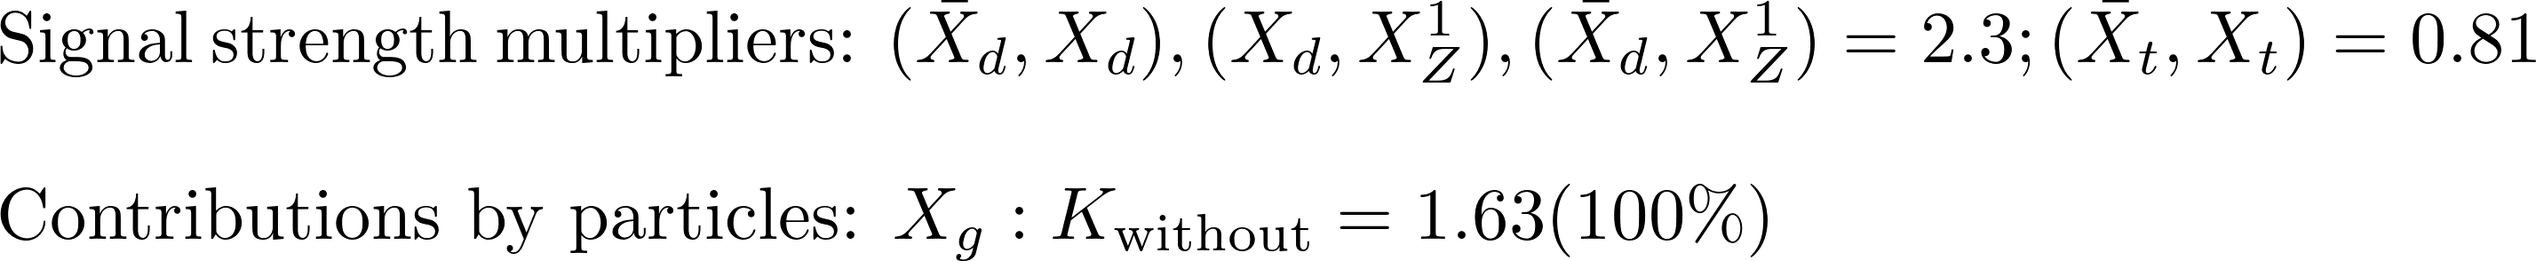
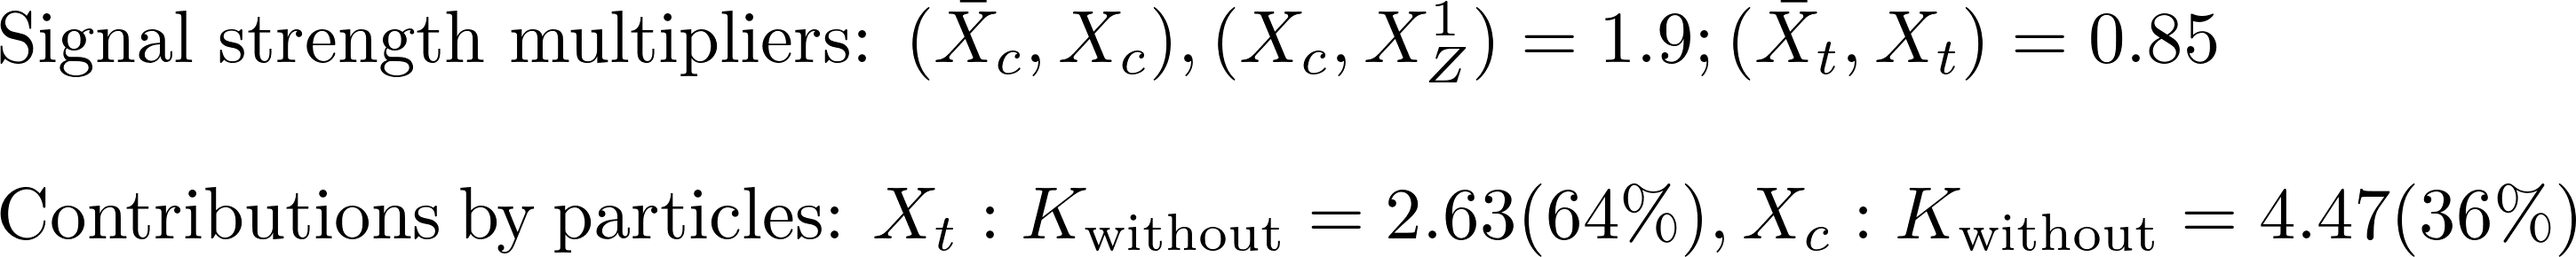
automated update by plotHiscore.py

diff --git a/protomodels/latest/index.html b/protomodels/latest/index.html
@@ -1,29 +1,31 @@
 <html>
 <body>
 <center>
-<table><td><h1>Current best protomodel: K=6.57</h1><td><img height=60px src=https://smodels.github.io/pics/banner.png></table>
+<table><td><h1>Current best protomodel: K=6.74</h1><td><img height=60px src=https://smodels.github.io/pics/banner.png></table>
 </center>
-<b><a href=./hiscore.slha>ProtoModel</a> <a href=./pmodel.py>(dict)</a> produced with <a href=https://smodels.github.io/docs/Validation124>database v1.2.4</a>, combination strategy <a href=./matrix_aggressive.png>aggressive</a> in walker 13 step 108.</b> K plots for: <a href=./M1000022.png?6550512>X<sub>Z</sub><sup>1</sup></a>, <a href=./M1000021.png?6550512>X<sub>g</sub></a>. HPD plots for: <a href=./llhd1000021.png?6550512>X<sub>g</sub></a>. SSM plots for: <a href=./ssm_-1000006_1000006.png?6550512>(x&#772;<sub>t</sub>,X<sub>t</sub>)</a><br>
+<b><a href=./hiscore.slha>ProtoModel</a> <a href=./pmodel.py>(dict)</a> produced with <a href=https://smodels.github.io/docs/Validation124>database v1.2.4</a>, combination strategy <a href=./matrix_aggressive.png>aggressive</a> in walker 35 step 530.</b> K plots for: <a href=./M1000022.png?6550651>X<sub>Z</sub><sup>1</sup></a>, <a href=./M1000004.png?6550651>X<sub>c</sub></a>, <a href=./M1000006.png?6550651>X<sub>t</sub></a>. HPD plots for: <a href=./llhd1000004.png?6550651>X<sub>c</sub></a>, <a href=./llhd1000006.png?6550651>X<sub>t</sub></a>. SSM plots for: <a href=./ssm_-1000006_1000006.png?6550651>(x&#772;<sub>t</sub>,X<sub>t</sub>)</a><br>
 <table width=80%>
 <tr><td>
-<br><b>30 predictions available. Highest r values are:</b><br><ul>
-<li><a href=http://cms-results.web.cern.ch/cms-results/public-results/publications/SUS-19-006/index.html>CMS-SUS-19-006</a>:T2tt r=1.30, r<sub>exp</sub>=0.79<br>
-<li><a href=http://cms-results.web.cern.ch/cms-results/public-results/publications/SUS-19-006/index.html>CMS-SUS-19-006</a>:T2 r=1.05, r<sub>exp</sub>=0.96<br>
-<li><a href=http://cms-results.web.cern.ch/cms-results/public-results/publications/SUS-16-033/index.html>CMS-SUS-16-033</a>:T2 r=0.88, r<sub>exp</sub>=0.68<br>
-<li><a href=http://cms-results.web.cern.ch/cms-results/public-results/publications/SUS-16-049/index.html>CMS-SUS-16-049</a>:T2tt r=0.75, r<sub>exp</sub>=0.63<br>
-<li><a href=http://cms-results.web.cern.ch/cms-results/public-results/publications/SUS-16-036/index.html>CMS-SUS-16-036</a>:T2 r=0.71, r<sub>exp</sub>=0.66<br>
+<br><b>32 predictions available. Highest r values are:</b><br><ul>
+<li><a href=http://cms-results.web.cern.ch/cms-results/public-results/publications/SUS-19-006/index.html>CMS-SUS-19-006</a>:T2tt r=1.30, r<sub>exp</sub>=0.83<br>
+<li><a href=http://cms-results.web.cern.ch/cms-results/public-results/publications/SUS-19-006/index.html>CMS-SUS-19-006</a>:T2 r=1.02, r<sub>exp</sub>=0.92<br>
+<li><a href=http://cms-results.web.cern.ch/cms-results/public-results/publications/SUS-16-033/index.html>CMS-SUS-16-033</a>:T2 r=1.02, r<sub>exp</sub>=0.70<br>
+<li><a href=http://cms-results.web.cern.ch/cms-results/public-results/publications/SUS-16-036/index.html>CMS-SUS-16-036</a>:T2tt r=0.89, r<sub>exp</sub>=0.57<br>
+<li><a href=http://cms-results.web.cern.ch/cms-results/public-results/publications/SUS-16-049/index.html>CMS-SUS-16-049</a>:T2tt r=0.81, r<sub>exp</sub>=0.73<br>
 </ul>
 <td><br><b>K values without analyses: (contribution)</b><br>
 <ul>
-<li> <a href=https://atlas.web.cern.ch/Atlas/GROUPS/PHYSICS/PAPERS/SUSY-2013-02/>ATLAS-SUSY-2013-02</a>: 4.21 (15%)
-<li> <a href=https://twiki.cern.ch/twiki/bin/view/CMSPublic/PhysicsResultsSUS12028>CMS-SUS-12-028</a>: 3.56 (19%)
-<li> <a href=>CMS-SUS-16-033</a>: 3.15 (22%)
-<li> <a href=https://atlas.web.cern.ch/Atlas/GROUPS/PHYSICS/PAPERS/SUSY-2016-07/>ATLAS-SUSY-2016-07</a>: -0.41 (44%)
-<td><img width=600px src=./texdoc.png?1599550512>
-<br><font size=-1>Last updated: Tue Sep  8 09:35:12 2020</font>
+<li> <a href=https://atlas.web.cern.ch/Atlas/GROUPS/PHYSICS/PAPERS/SUSY-2013-02/>ATLAS-SUSY-2013-02</a>: 9.99 (49%)
+<li> <a href=https://atlas.web.cern.ch/Atlas/GROUPS/PHYSICS/PAPERS/SUSY-2013-15/>ATLAS-SUSY-2013-15</a>: 9.56 (42%)
+<li> <a href=https://twiki.cern.ch/twiki/bin/view/CMSPublic/PhysicsResultsSUS13012>CMS-SUS-13-012</a>: 9.31 (39%)
+<li> <a href=https://atlas.web.cern.ch/Atlas/GROUPS/PHYSICS/PAPERS/SUSY-2016-16/>ATLAS-SUSY-2016-16</a>: 8.71 (30%)
+<li> <a href=https://atlas.web.cern.ch/Atlas/GROUPS/PHYSICS/PAPERS/SUSY-2016-07/>ATLAS-SUSY-2016-07</a>: 5.49 (-19%)
+<li> <a href=http://cms-results.web.cern.ch/cms-results/public-results/publications/SUS-16-050/index.html>CMS-SUS-16-050</a>: 4.03 (-41%)
+<td><img width=600px src=./texdoc.png?1599550651>
+<br><font size=-1>Last updated: Tue Sep  8 09:37:31 2020</font>
 </table><table style="width:80%">
-<td width=45%><img height=580px src=./ruler.png?1599550512><td width=55%><img height=380px src=./decays.png?1599550512>
-<font size=-3><iframe type="text/html" height="220px" width="100%s" frameborder="0" src="./rawnumbers.html?1599550512"></iframe></font>
+<td width=45%><img height=580px src=./ruler.png?1599550651><td width=55%><img height=380px src=./decays.png?1599550651>
+<font size=-3><iframe type="text/html" height="220px" width="100%s" frameborder="0" src="./rawnumbers.html?1599550651"></iframe></font>
 </table>
 </body>
 </html>

diff --git a/protomodels/latest/rawnumbers.html b/protomodels/latest/rawnumbers.html
@@ -1,10 +1,10 @@
 <table>
 <tr><th>Analysis Name</th><th>Type</th><th>Dataset</th><th>Observed</th><th>Expected</th><th>Approx &sigma;</th><th>Particles</th>
 </tr>
-<tr><td><a href=https://atlas.web.cern.ch/Atlas/GROUPS/PHYSICS/PAPERS/SUSY-2013-02/>ATLAS-SUSY-2013-02</a></td><td>em</td> <td>SR6jtp</td><td>6</td><td>4.9 +/- 1.6</td><td style="text-align:right">0.4 &sigma;</td><td style="text-align:right">X<sub>d</sub></td></tr>
+<tr><td><a href=https://atlas.web.cern.ch/Atlas/GROUPS/PHYSICS/PAPERS/SUSY-2013-02/>ATLAS-SUSY-2013-02</a></td><td>em</td> <td>SR6jtp</td><td>6</td><td>4.9 +/- 1.6</td><td style="text-align:right">0.4 &sigma;</td><td style="text-align:right">X<sub>c</sub></td></tr>
 <tr><td><a href=https://atlas.web.cern.ch/Atlas/GROUPS/PHYSICS/PAPERS/SUSY-2013-15/>ATLAS-SUSY-2013-15</a></td><td>em</td> <td>tNboost</td><td>5</td><td>3.3 +/- 0.7</td><td style="text-align:right">0.9 &sigma;</td><td style="text-align:right">X<sub>t</sub></td></tr>
-<tr><td><a href=https://atlas.web.cern.ch/Atlas/GROUPS/PHYSICS/PAPERS/SUSY-2016-07/>ATLAS-SUSY-2016-07</a></td><td>em</td> <td>2j_Meff_1200</td><td>611</td><td>526 +/- 31</td><td style="text-align:right">2.2 &sigma;</td><td style="text-align:right">X<sub>d</sub></td></tr>
+<tr><td><a href=https://atlas.web.cern.ch/Atlas/GROUPS/PHYSICS/PAPERS/SUSY-2016-07/>ATLAS-SUSY-2016-07</a></td><td>em</td> <td>2j_Meff_1200</td><td>611</td><td>526 +/- 31</td><td style="text-align:right">2.2 &sigma;</td><td style="text-align:right">X<sub>c</sub></td></tr>
 <tr><td><a href=https://atlas.web.cern.ch/Atlas/GROUPS/PHYSICS/PAPERS/SUSY-2016-16/>ATLAS-SUSY-2016-16</a></td><td>em</td> <td>tN_med</td><td>50</td><td>36.3 +/- 6.6</td><td style="text-align:right">1.5 &sigma;</td><td style="text-align:right">X<sub>t</sub></td></tr>
-<tr><td><a href=https://twiki.cern.ch/twiki/bin/view/CMSPublic/PhysicsResultsSUS12028>CMS-SUS-12-028</a></td><td>ul</td> <td>-</td><td> 23.1 fb </td><td> 14.7 fb</td><td style="text-align:right">1.1 &sigma;</td><td style="text-align:right">X<sub>d</sub></td></tr>
-<tr><td><a href=http://cms-results.web.cern.ch/cms-results/public-results/publications/SUS-16-050/index.html>CMS-SUS-16-050</a></td><td>ul</td> <td>-</td><td> 121.2 fb </td><td> 53.6 fb</td><td style="text-align:right">2.5 &sigma;</td><td style="text-align:right">X<sub>t</sub></td></tr>
+<tr><td><a href=https://twiki.cern.ch/twiki/bin/view/CMSPublic/PhysicsResultsSUS13012>CMS-SUS-13-012</a></td><td>ul</td> <td>-</td><td> 36.6 fb </td><td> 22.7 fb</td><td style="text-align:right">1.2 &sigma;</td><td style="text-align:right">X<sub>c</sub></td></tr>
+<tr><td><a href=http://cms-results.web.cern.ch/cms-results/public-results/publications/SUS-16-050/index.html>CMS-SUS-16-050</a></td><td>ul</td> <td>-</td><td> 94.6 fb </td><td> 45.0 fb</td><td style="text-align:right">2.2 &sigma;</td><td style="text-align:right">X<sub>t</sub></td></tr>
 </table>

diff --git a/protomodels/latest/pmodel.py b/protomodels/latest/pmodel.py
@@ -1,1 +1,1 @@
-{'masses': {1000022: 481.214, 1000001: 1041.071, 1000006: 773.505}, 'ssmultipliers': {(1000022, 1000022): 12.494, (1000001, 1000001): 2.266, (-1000001, 1000001): 2.266, (-1000001, -1000001): 2.266, (1000001, 1000022): 2.266, (-1000001, 1000022): 2.266, (1000006, 1000006): 0.806, (-1000006, 1000006): 0.806, (-1000006, -1000006): 0.806, (1000006, 1000022): 0.806, (-1000006, 1000022): 0.806, (1000001, 1000006): 0.806, (-1000006, 1000001): 0.806, (-1000001, 1000006): 0.806, (-1000006, -1000001): 0.806}, 'decays': {1000022: {}, 1000001: {1000022: 1.0}, 1000006: {1000022: 1.0}}, 'timestamp': 'Tue Sep  8 09:35:06 2020', 'Z': 3.181, 'K': 6.57, 'step': 108, 'codever': '1.0', 'dbver': '1.2.4'}
+{'masses': {1000022: 481.87, 1000004: 924.091, 1000006: 792.646}, 'ssmultipliers': {(1000022, 1000022): 69.095, (1000004, 1000004): 1.881, (-1000004, 1000004): 1.881, (-1000004, -1000004): 1.881, (1000004, 1000022): 1.881, (-1000004, 1000022): 1.881, (1000006, 1000006): 0.851, (-1000006, 1000006): 0.851, (-1000006, -1000006): 0.851, (1000006, 1000022): 0.851, (-1000006, 1000022): 0.851, (1000004, 1000006): 0.851, (-1000006, 1000004): 0.851, (-1000004, 1000006): 0.851, (-1000006, -1000004): 0.851}, 'decays': {1000022: {}, 1000004: {1000022: 1.0}, 1000006: {1000022: 1.0}}, 'timestamp': 'Tue Sep  8 09:37:25 2020', 'Z': 3.204, 'K': 6.739, 'step': 530, 'codever': '1.0', 'dbver': '1.2.4'}
